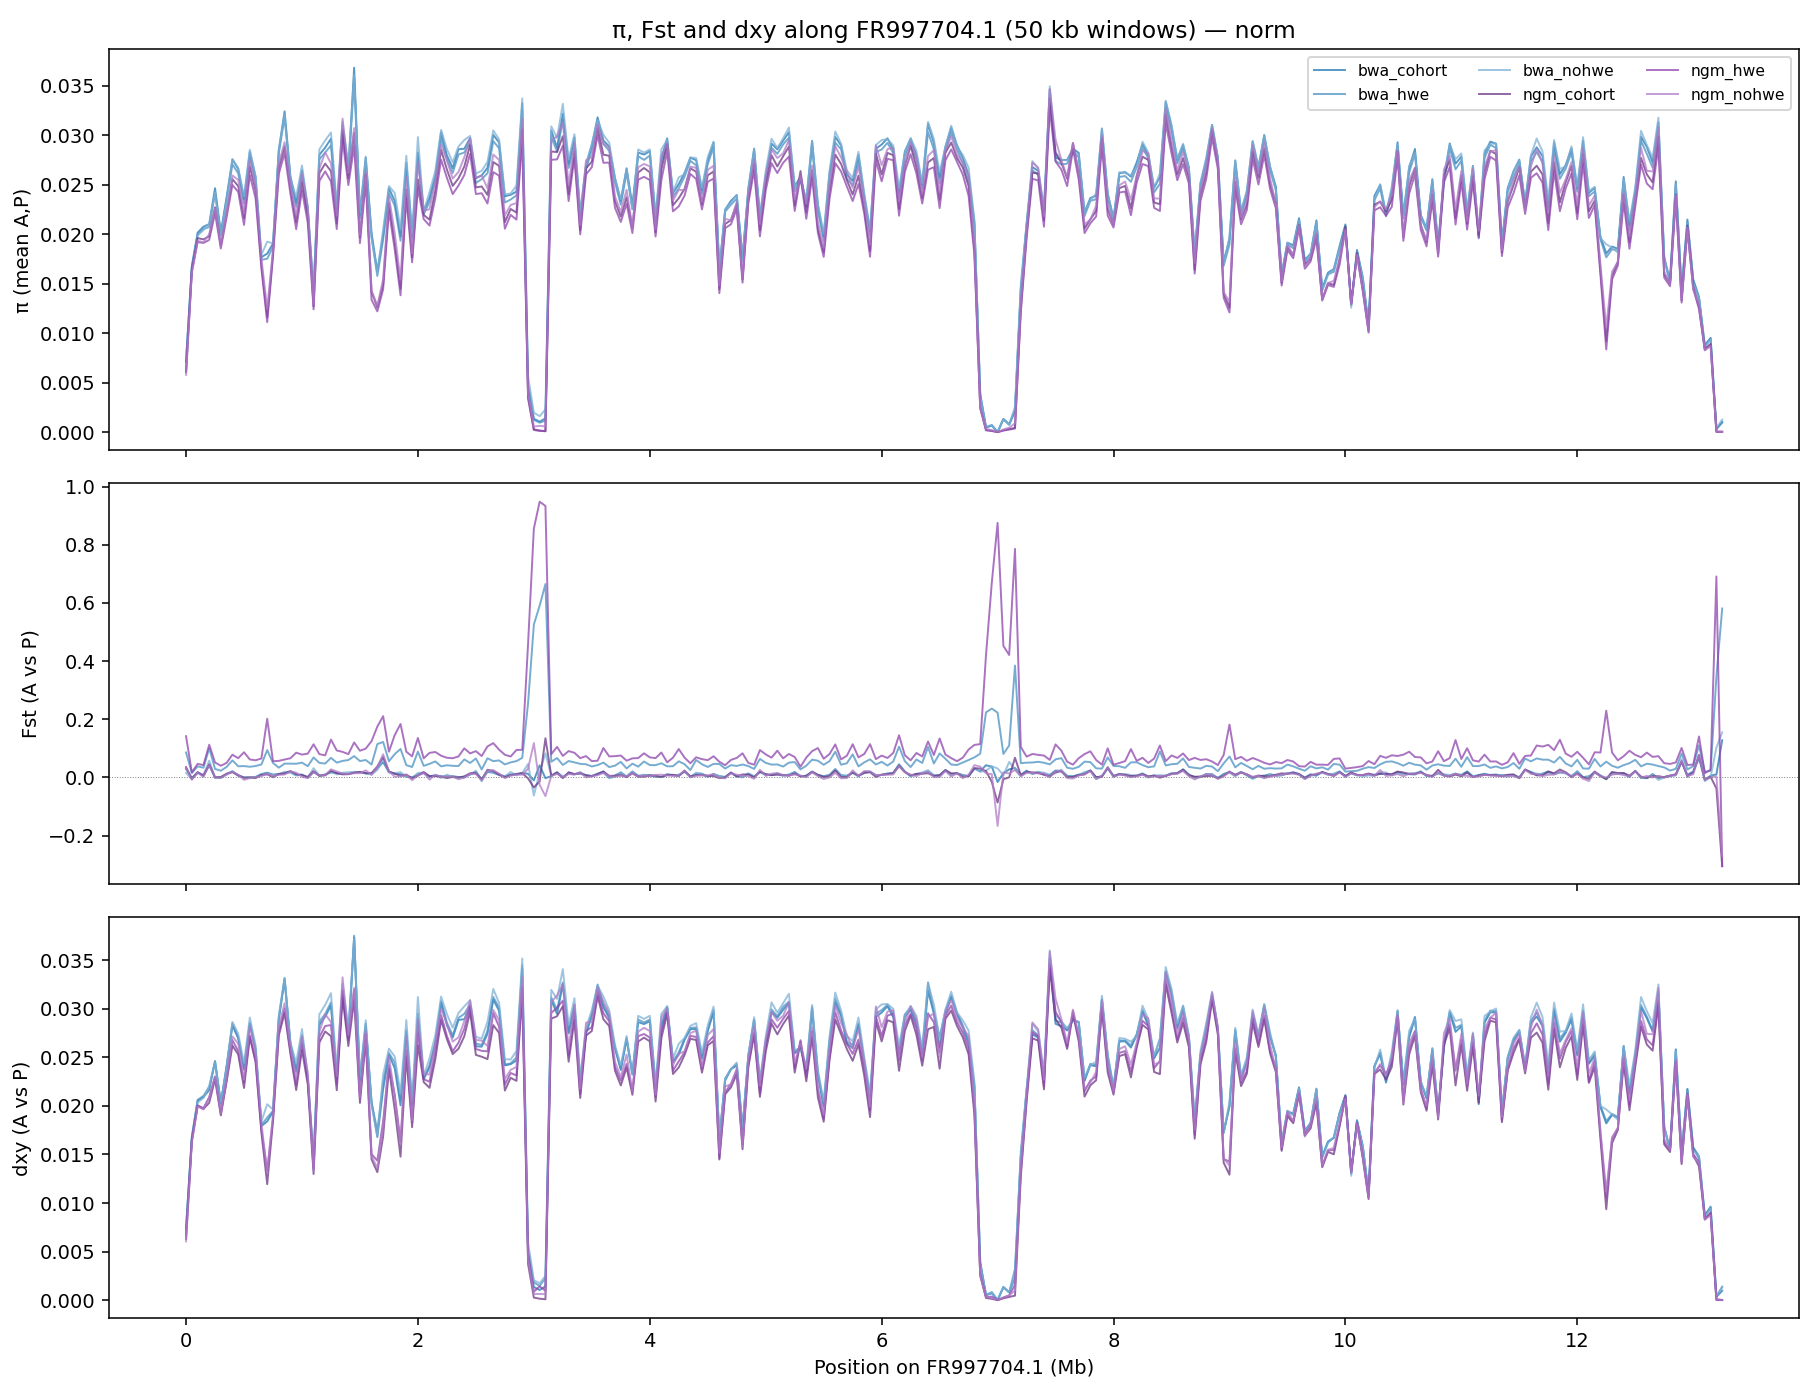
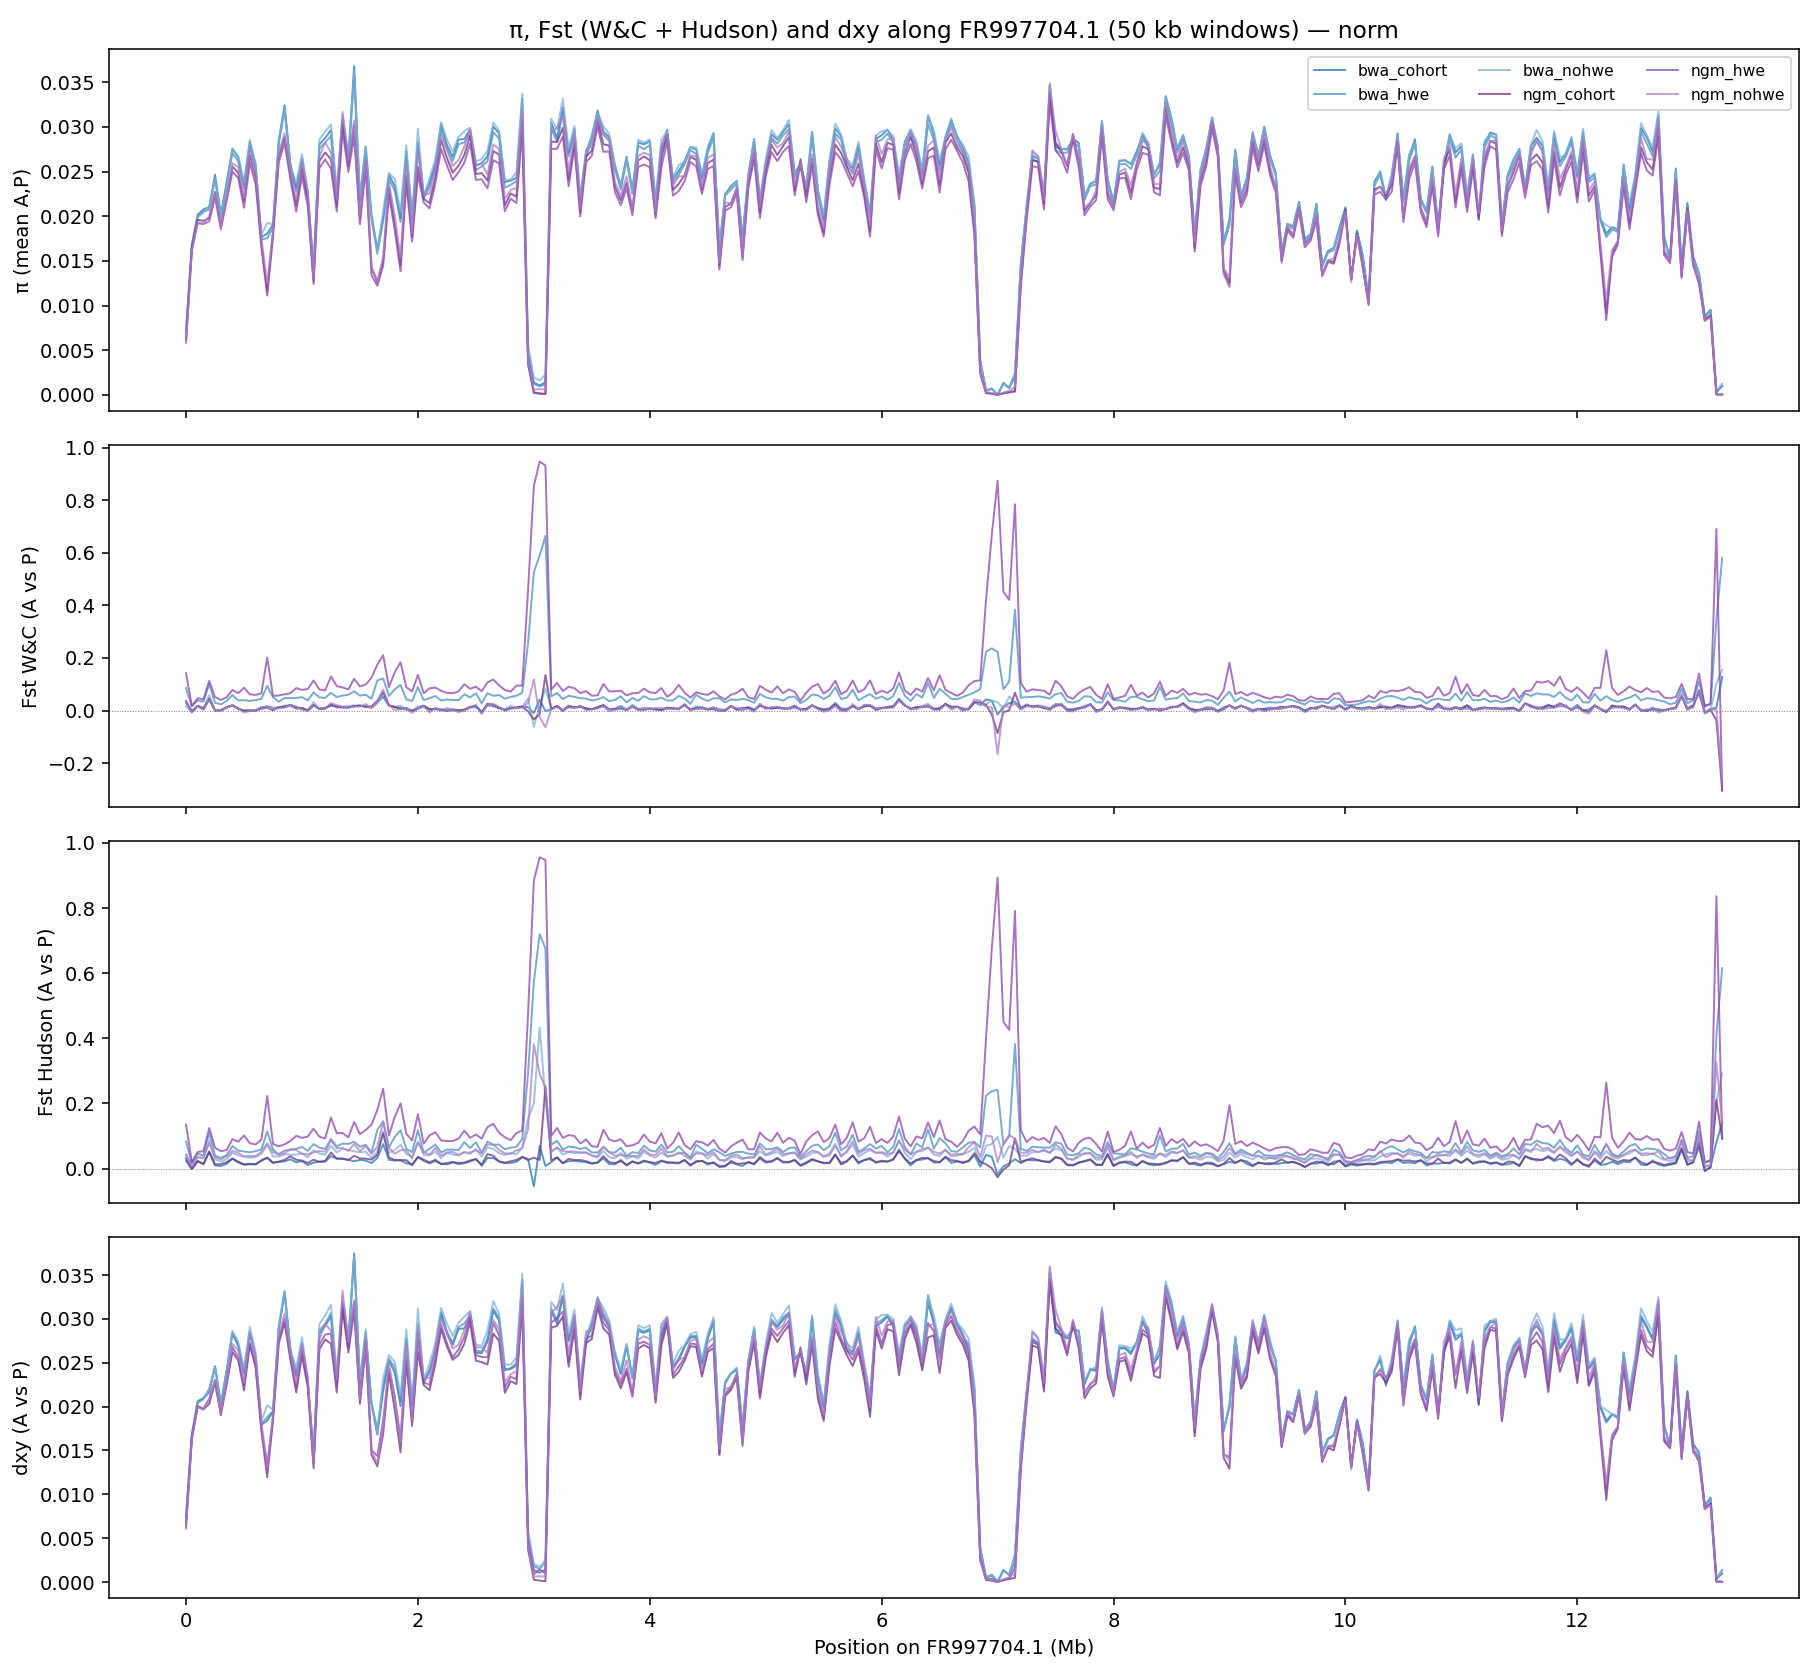
Show Hudson Fst alongside default WC in the sliding-window analyses
- 4b: add Hudson per-method Fst tracks (raw+norm) next to the W&C tracks
- 4f: combined genome scan now stacks 4 aligned panels — pi / Fst(W&C) /
  Fst(Hudson) / dxy — so both estimators sit with pi and dxy in one view
plot_combined_tracks() gained an optional Hudson panel; text/captions updated.

diff --git a/lib/analyze_and_plot.py b/lib/analyze_and_plot.py
@@ -167,34 +167,44 @@ def plot_dxy_tracks(df_dxy, out_png, title):
     axes[0].legend(loc="upper right", fontsize=8, ncol=2)
     plt.tight_layout(); plt.savefig(out_png, dpi=140); plt.close()
 
-def plot_combined_tracks(pi, fst, dxy, out_png, title):
-    """Stack the 3 windowed measures (π, Fst, dxy) sharing the x-axis so they can
-    be read against each other along the chromosome. One line per method.
-    π is averaged across the two populations to keep one line per method."""
+def plot_combined_tracks(pi, fst, dxy, out_png, title, hud=None):
+    """Stack the windowed measures sharing the x-axis so they can be read against
+    each other along the chromosome. One line per method. π is averaged across the
+    two populations to keep one line per method. If `hud` (Hudson Fst) is given, a
+    separate Hudson-Fst panel is added below the default (Weir & Cockerham) Fst."""
     if pi.empty or fst.empty or dxy.empty: return
-    fig, axes = plt.subplots(3, 1, figsize=(13, 10), sharex=True)
-    # panel 1: π (mean over populations, per method)
+    have_hud = hud is not None and not hud.empty and "avg_hudson_fst" in hud.columns
+    npan = 4 if have_hud else 3
+    fig, axes = plt.subplots(npan, 1, figsize=(13, 3.0*npan), sharex=True)
+    k = 0
+    # π (mean over populations, per method)
     pim = (pi.groupby(["method","window_pos_1"], as_index=False)["avg_pi"].mean())
     for m,s in pim.groupby("method"):
         s = s.sort_values("window_pos_1")
-        axes[0].plot(s["window_pos_1"]/1e6, s["avg_pi"], label=m,
+        axes[k].plot(s["window_pos_1"]/1e6, s["avg_pi"], label=m,
                      color=METHOD_COLORS.get(m,"k"), alpha=0.75, lw=1.0)
-    axes[0].set_ylabel("π (mean A,P)")
-    # panel 2: Fst (A vs P)
+    axes[k].set_ylabel("π (mean A,P)"); axes[k].legend(loc="upper right", fontsize=8, ncol=3); k+=1
+    # Fst — Weir & Cockerham (default)
     for m,s in fst.groupby("method"):
         s = s.sort_values("window_pos_1")
-        axes[1].plot(s["window_pos_1"]/1e6, s["avg_wc_fst"], label=m,
+        axes[k].plot(s["window_pos_1"]/1e6, s["avg_wc_fst"], label=m,
                      color=METHOD_COLORS.get(m,"k"), alpha=0.75, lw=1.0)
-    axes[1].set_ylabel("Fst (A vs P)"); axes[1].axhline(0, color="grey", lw=0.5, ls=":")
-    # panel 3: dxy (A vs P)
+    axes[k].set_ylabel("Fst W&C (A vs P)"); axes[k].axhline(0, color="grey", lw=0.5, ls=":"); k+=1
+    # Fst — Hudson (optional)
+    if have_hud:
+        for m,s in hud.groupby("method"):
+            s = s.sort_values("window_pos_1")
+            axes[k].plot(s["window_pos_1"]/1e6, s["avg_hudson_fst"], label=m,
+                         color=METHOD_COLORS.get(m,"k"), alpha=0.75, lw=1.0)
+        axes[k].set_ylabel("Fst Hudson (A vs P)"); axes[k].axhline(0, color="grey", lw=0.5, ls=":"); k+=1
+    # dxy (A vs P)
     for m,s in dxy.groupby("method"):
         s = s.sort_values("window_pos_1")
-        axes[2].plot(s["window_pos_1"]/1e6, s["avg_dxy"], label=m,
+        axes[k].plot(s["window_pos_1"]/1e6, s["avg_dxy"], label=m,
                      color=METHOD_COLORS.get(m,"k"), alpha=0.75, lw=1.0)
-    axes[2].set_ylabel("dxy (A vs P)")
-    axes[2].set_xlabel("Position on FR997704.1 (Mb)")
+    axes[k].set_ylabel("dxy (A vs P)")
+    axes[k].set_xlabel("Position on FR997704.1 (Mb)")
     axes[0].set_title(title)
-    axes[0].legend(loc="upper right", fontsize=8, ncol=3)
     plt.tight_layout(); plt.savefig(out_png, dpi=140); plt.close()
 
 def correlation_heatmap(df, value_col, key_cols, out_png, title):
@@ -473,11 +483,13 @@ def main():
                                        f"Spearman corr. of windowed dxy across methods — {regime}")
             if corr is not None: corr.to_csv(plots/f"dxy_correlation_{regime}.tsv", sep="\t")
 
-        # combined 3-measure genome scan (π / Fst / dxy stacked, shared x-axis)
+        # combined genome scan (π / Fst-WC / Fst-Hudson / dxy stacked, shared x-axis)
+        hud = load_pixy(root/f"pixy_hudson_{regime}", "fst")
         if not pi.empty and not fst.empty and not dxy.empty:
             plot_combined_tracks(pi, fst, dxy,
                                  plots/f"combined_tracks_{regime}.png",
-                                 f"π, Fst and dxy along FR997704.1 (50 kb windows) — {regime}")
+                                 f"π, Fst (W&C + Hudson) and dxy along FR997704.1 (50 kb windows) — {regime}",
+                                 hud=hud)
 
     # Tier 3
     df_vep = parse_vep_summary(root/"vep")

diff --git a/lib/make_report.py b/lib/make_report.py
@@ -284,11 +284,21 @@ see Section 5.)</div>""")
 
 # --- 4b. Fst ---
 add('<h3 id="t4b">4b. Fₛₜ — population differentiation (A vs P)</h3>')
+add("<h4>Windowed Fₛₜ tracks — Weir &amp; Cockerham (default estimator)</h4>")
 add('<div class="grid2">')
 add("<div><h4>raw</h4>"+img("fst_per_method_raw.png")+"</div>")
 add("<div><h4>normalised</h4>"+img("fst_per_method_norm.png")+"</div>")
 add("</div>")
-add("<h4>Cross-method Spearman correlation of windowed Fₛₜ</h4>")
+add("""<h4>Windowed Fₛₜ tracks — Hudson estimator (<code>--fst_type hudson</code>)</h4>""")
+add("""<p>The same windowed Fₛₜ computed with the Hudson estimator, shown here alongside the default so the
+two are directly comparable along the chromosome. The peaks fall at the same loci; Hudson runs a little
+higher at them. The head-to-head per-window comparison and the cross-method robustness of Hudson are in
+§4g.</p>""")
+add('<div class="grid2">')
+add("<div><h4>raw</h4>"+img("fst_hudson_per_method_raw.png","hudson tracks raw")+"</div>")
+add("<div><h4>normalised</h4>"+img("fst_hudson_per_method_norm.png","hudson tracks norm")+"</div>")
+add("</div>")
+add("<h4>Cross-method Spearman correlation of windowed Fₛₜ (Weir &amp; Cockerham)</h4>")
 add('<div class="grid2">')
 add("<div><h4>raw</h4>"+img("fst_correlation_raw.png")+"</div>")
 add("<div><h4>normalised</h4>"+img("fst_correlation_norm.png")+"</div>")
@@ -362,21 +372,24 @@ practical rule in §5b: use the un-split all-sites VCFs for π/dₓy/Fₛₜ.</d
 
 # --- 4f. all three measures together (combined genome scan) ---
 add('<h3 id="t4f">4f. All three measures together — combined genome scan</h3>')
-add("""<p>The three windowed estimators (§4a–4c) stacked in one figure and <b>sharing the x-axis</b>, so
-they can be read against each other along the chromosome: π (mean of the two populations) on top, Fₛₜ
-(A vs P) in the middle, dₓy (A vs P) at the bottom. All six methods are overlaid in every panel.</p>""")
+add("""<p>The windowed estimators (§4a–4c, §4g) stacked in one figure and <b>sharing the x-axis</b>, so they
+can be read against each other along the chromosome: <b>π</b> (mean of the two populations) on top, then
+<b>Fₛₜ (Weir &amp; Cockerham)</b>, then <b>Fₛₜ (Hudson)</b>, then <b>dₓy</b> (all A vs P) at the bottom.
+Both Fₛₜ estimators are shown so they can be compared against each other and against π/dₓy in the same view.
+All six methods are overlaid in every panel.</p>""")
 add('<div class="grid2">')
 add("<div><h4>raw</h4>"+img("combined_tracks_raw.png","combined tracks raw")+"</div>")
 add("<div><h4>normalised</h4>"+img("combined_tracks_norm.png","combined tracks norm")+"</div>")
 add("</div>")
 add("""<div class="key"><b>What the aligned view shows:</b> (1) π and dₓy track each other almost exactly —
 both are absolute diversity measures and both bundle tightly across the six methods; (2) the regions where
-π and dₓy crash toward zero (≈3 Mb and ≈7 Mb) coincide with the sharp <b>Fₛₜ peaks</b> — the classic
-signature of low-diversity / reduced-recombination regions where differentiation is inflated; (3) the
-method lines are visibly more spread in the Fₛₜ panel than in the π/dₓy panels — the same robustness
-contrast quantified in §4a–4b, now visible at a glance. This panel is the synthesis of section 4: it shows
-both the biology (covarying diversity and differentiation along the chromosome) and the methodology (which
-statistics are method-stable).</div>""")
+π and dₓy crash toward zero (≈3 Mb and ≈7 Mb) coincide with the sharp <b>Fₛₜ peaks</b> in <em>both</em>
+estimator panels — the classic signature of low-diversity / reduced-recombination regions where
+differentiation is inflated; (3) the two Fₛₜ panels agree on <em>where</em> the peaks are but Hudson reaches
+<em>higher</em> at them (see §4g); (4) the method lines are visibly more spread in the Fₛₜ panels than in the
+π/dₓy panels — the same robustness contrast quantified in §4a–4b, now visible at a glance. This panel is the
+synthesis of section 4: it shows both the biology (covarying diversity and differentiation along the
+chromosome) and the methodology (which statistics, and which estimators, are method-stable).</div>""")
 
 # --- 4g. Fst estimator comparison: WC vs Hudson ---
 add('<h3 id="t4g">4g. Fₛₜ estimator comparison — Weir &amp; Cockerham vs Hudson</h3>')